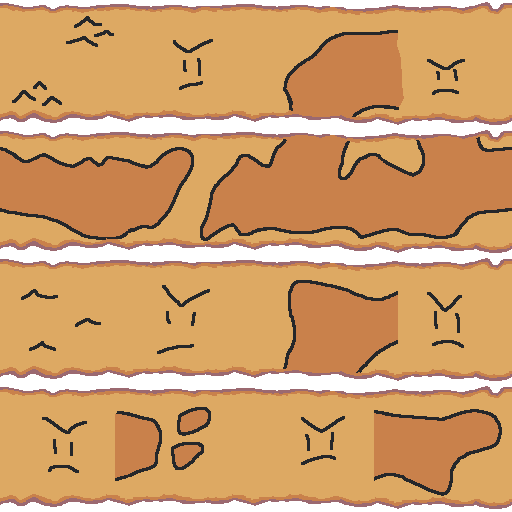
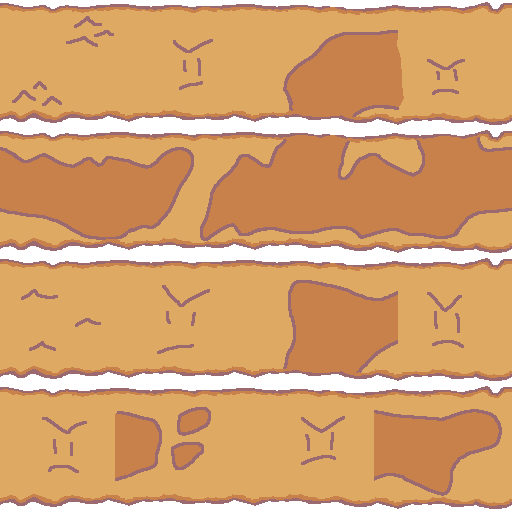
display map errors

diff --git a/CC24/src/main.ts b/CC24/src/main.ts
@@ -16,12 +16,13 @@ gl.clearColor(.5, .5, .5, 1);
 
 const TEXTURES = {
   boat: twgl.createTexture(gl, { src: await loadImage('boat') }),
+  errors: twgl.createTexture(gl, { src: await loadImage('errors') }),
+  back: twgl.createTexture(gl, { src: await loadImage('back') }),
 }
 
 const MAP_IMAGES = {
   cols: twgl.createTexture(gl, { src: await loadImage('0102_1200_' + 'cols') }),
   rows: twgl.createTexture(gl, { src: await loadImage('0102_1200_' + 'rows') }),
-  back: twgl.createTexture(gl, { src: await loadImage('back') }),
   // back: twgl.createTexture(gl, { src: await loadImage('0102_1002_' + 'back') }),
 }
 
@@ -111,20 +112,147 @@ class BoardState {
       transform: new Transform(boat_pos_visual, Vec2.both(216 * TILE_SIDE / 128), Vec2.half, 0),
       uvs: Transform.identity,
     });
-    vanillaSprites.end({ resolution: [canvas_gl.clientWidth, canvas_gl.clientHeight], 
-      u_texture: TEXTURES.boat });
-
-
-    // ctx.drawImage(MAP_IMAGES.back, 0, 0, TILE_SIDE * 5, TILE_SIDE * 5);
-    vanillaSprites.add({
-      transform: new Transform(Vec2.zero, Vec2.both(640), Vec2.zero, 0),
-      uvs: Transform.identity,
+    vanillaSprites.end({
+      resolution: [canvas_gl.clientWidth, canvas_gl.clientHeight],
+      u_texture: TEXTURES.boat
     });
-    vanillaSprites.end({ resolution: [canvas_gl.clientWidth, canvas_gl.clientHeight], 
-      u_texture: MAP_IMAGES.back });
+
+
+    for (let k = 0; k < 5; k++) {
+
+      for (let col = 0; col < 4; col++) {
+        if (this.errorAtHor(col, k) && (anim_t > .7 || (this.parent !== null && this.parent.errorAtHor(col, k)))) {
+          const s = Vec2.both(.1);
+          const asdf = {
+            top_left: new Vec2((col + 1) / 5, (k + .5) / 5).sub(s.scale(.5)),
+            size: s,
+          };
+          vanillaSprites.add({
+            transform: new Transform(Vec2.zero, Vec2.both(640), Vec2.zero, 0).actOn(asdf),
+            uvs: asdf,
+          });
+        }
+      }
+
+      for (let row = 0; row < 4; row++) {
+        if (this.errorAtVer(row, k) && (anim_t > .7 || (this.parent !== null && this.parent.errorAtVer(row, k)))) {
+          const s = Vec2.both(.1);
+          const asdf = {
+            top_left: new Vec2((k + .5) / 5, (row + 1) / 5,).sub(s.scale(.5)),
+            size: s,
+          };
+          vanillaSprites.add({
+            transform: new Transform(Vec2.zero, Vec2.both(640), Vec2.zero, 0).actOn(asdf),
+            uvs: asdf,
+          });
+        }
+      }
+
+
+    }
+    vanillaSprites.end({
+      resolution: [canvas_gl.clientWidth, canvas_gl.clientHeight],
+      u_texture: TEXTURES.errors
+    });
+
+
+    // vanillaSprites.add({
+    //   transform: new Transform(Vec2.zero, Vec2.both(640), Vec2.zero, 0),
+    //   uvs: Transform.identity,
+    // });
+    // vanillaSprites.end({ resolution: [canvas_gl.clientWidth, canvas_gl.clientHeight], 
+    //   u_texture: TEXTURES.back });
 
 
     ctx.resetTransform();
+  }
+
+  errorAtHor(col: number, bottom_row: number): boolean {
+    return this.edgeAt(new Vec2(col, mod(bottom_row - 1, 4)), 'down') !==
+      this.edgeAt(new Vec2(col, mod(bottom_row, 4)), 'up');
+  }
+
+  errorAtVer(row: number, right_col: number): boolean {
+    return this.edgeAt(new Vec2(mod(right_col - 1, 4), row), 'right') !==
+      this.edgeAt(new Vec2(mod(right_col, 4), row), 'left');
+  }
+
+  edgeAt(pos: Vec2, dir: Direction): EdgeType {
+    const is_hor = (pos.x + pos.y) % 2 === 0;
+    if (is_hor) {
+      return BoardState.startingEdgeAt(new Vec2(mod(pos.x - this.rows[pos.y], 4), pos.y), dir, 'rows');
+    } else {
+      return BoardState.startingEdgeAt(new Vec2(pos.x, mod(pos.y - this.cols[pos.x], 4)), dir, 'cols');
+    }
+    return '0';
+  }
+
+  static startingEdgeAt(pos: Vec2, dir: Direction, map: 'rows' | 'cols'): EdgeType {
+    if (map === 'rows') {
+      const UP = Grid2D.fromAscii(`
+      0000
+      0077
+      0000
+      0000
+    `);
+      const DOWN = Grid2D.fromAscii(`
+      0090
+      0000
+      0030
+      0000
+    `);
+      const RIGHT = Grid2D.fromAscii(`
+      0010
+      BBBA
+      0040
+      Y0Y0
+    `);
+      const LEFT = Grid2D.fromAscii(`
+      0001
+      ABBB
+      0004
+      0Y0Y
+    `);
+      const maps: Record<Direction, Grid2D<string>> = {
+        up: UP,
+        down: DOWN,
+        left: LEFT,
+        right: RIGHT,
+      };
+      return edgeFromString(maps[dir].getV(pos));
+    } else {
+      const UP = Grid2D.fromAscii(`
+      0000
+      0097
+      0000
+      0030
+    `);
+      const DOWN = Grid2D.fromAscii(`
+      0097
+      0000
+      0030
+      0000
+    `);
+      const RIGHT = Grid2D.fromAscii(`
+      A000
+      B0B0
+      Y000
+      Y0Y0
+    `);
+      const LEFT = Grid2D.fromAscii(`
+      B001
+      A0B0
+      0004
+      0000
+    `);
+      const maps: Record<Direction, Grid2D<string>> = {
+        up: UP,
+        down: DOWN,
+        left: LEFT,
+        right: RIGHT,
+      };
+      return edgeFromString(maps[dir].getV(pos));
+    }
   }
 
   private drawCol(i: number, j: number, TILE_SIDE: number, anim_t: number) {
@@ -218,6 +346,27 @@ class BoardState {
   }
 }
 
+type EdgeType = '0' | 'A' | 'B' | 'Y' | '9' | '3' | '4' | '7' | '1';
+
+function edgeFromString(c: string): EdgeType {
+  if ('0ABY93471'.includes(c)) {
+    // @ts-expect-error we just checked
+    return c;
+  }
+  throw new Error(`bad c: ${c}`);
+}
+// const 
+// edges_rows_hor[col][bottom_row] = the type of the thing
+// const edges_rows_hor: EdgeType[][] = [
+//   ['0', '0', '0', '0', '0'],
+//   ['0', '0', '0', '0', '0'],
+//   ['0', '0', '0', '0', '0'],
+//   ['0', '0', '0', '0', '0'],
+// ];
+// const edges_cols_hor: EdgeType[][] = [
+//   ['0'],
+// ]
+
 // rows: { 0, 1, 0, 2 }, cols: { 1, 0, 0, 2 }, len: 30
 // const SOLUTION = new BoardState(new Vec2(3, 3), [0, 2, 1, 0], [2, 1, 0, 0], null);
 const SOLUTION = new BoardState(new Vec2(3, 3), [0, 1, 0, 2], [1, 2, 0, 0], null);
@@ -232,6 +381,13 @@ let cur_state = new BoardState(
   fromCount(4, _ => 0),
   null,
 );
+
+console.log(cur_state.edgeAt(new Vec2(0, 0), 'up'));
+console.log(cur_state.edgeAt(new Vec2(0, -1), 'down'));
+console.log(cur_state.errorAtHor(0, 0));
+
+// return this.edgeAt(new Vec2(mod(bottom_row - 1, 4), 0), 'down') !==
+//   this.edgeAt(new Vec2(mod(bottom_row, 4), 0), 'up');
 
 // cur_state = SOLUTION;
 
@@ -355,8 +511,6 @@ back_sol.reverse();
 for (const dir of back_sol) {
   // cur_state = cur_state.next(dir)!;
 }
-
-console.log(cur_state);
 
 ////// library stuff
 
